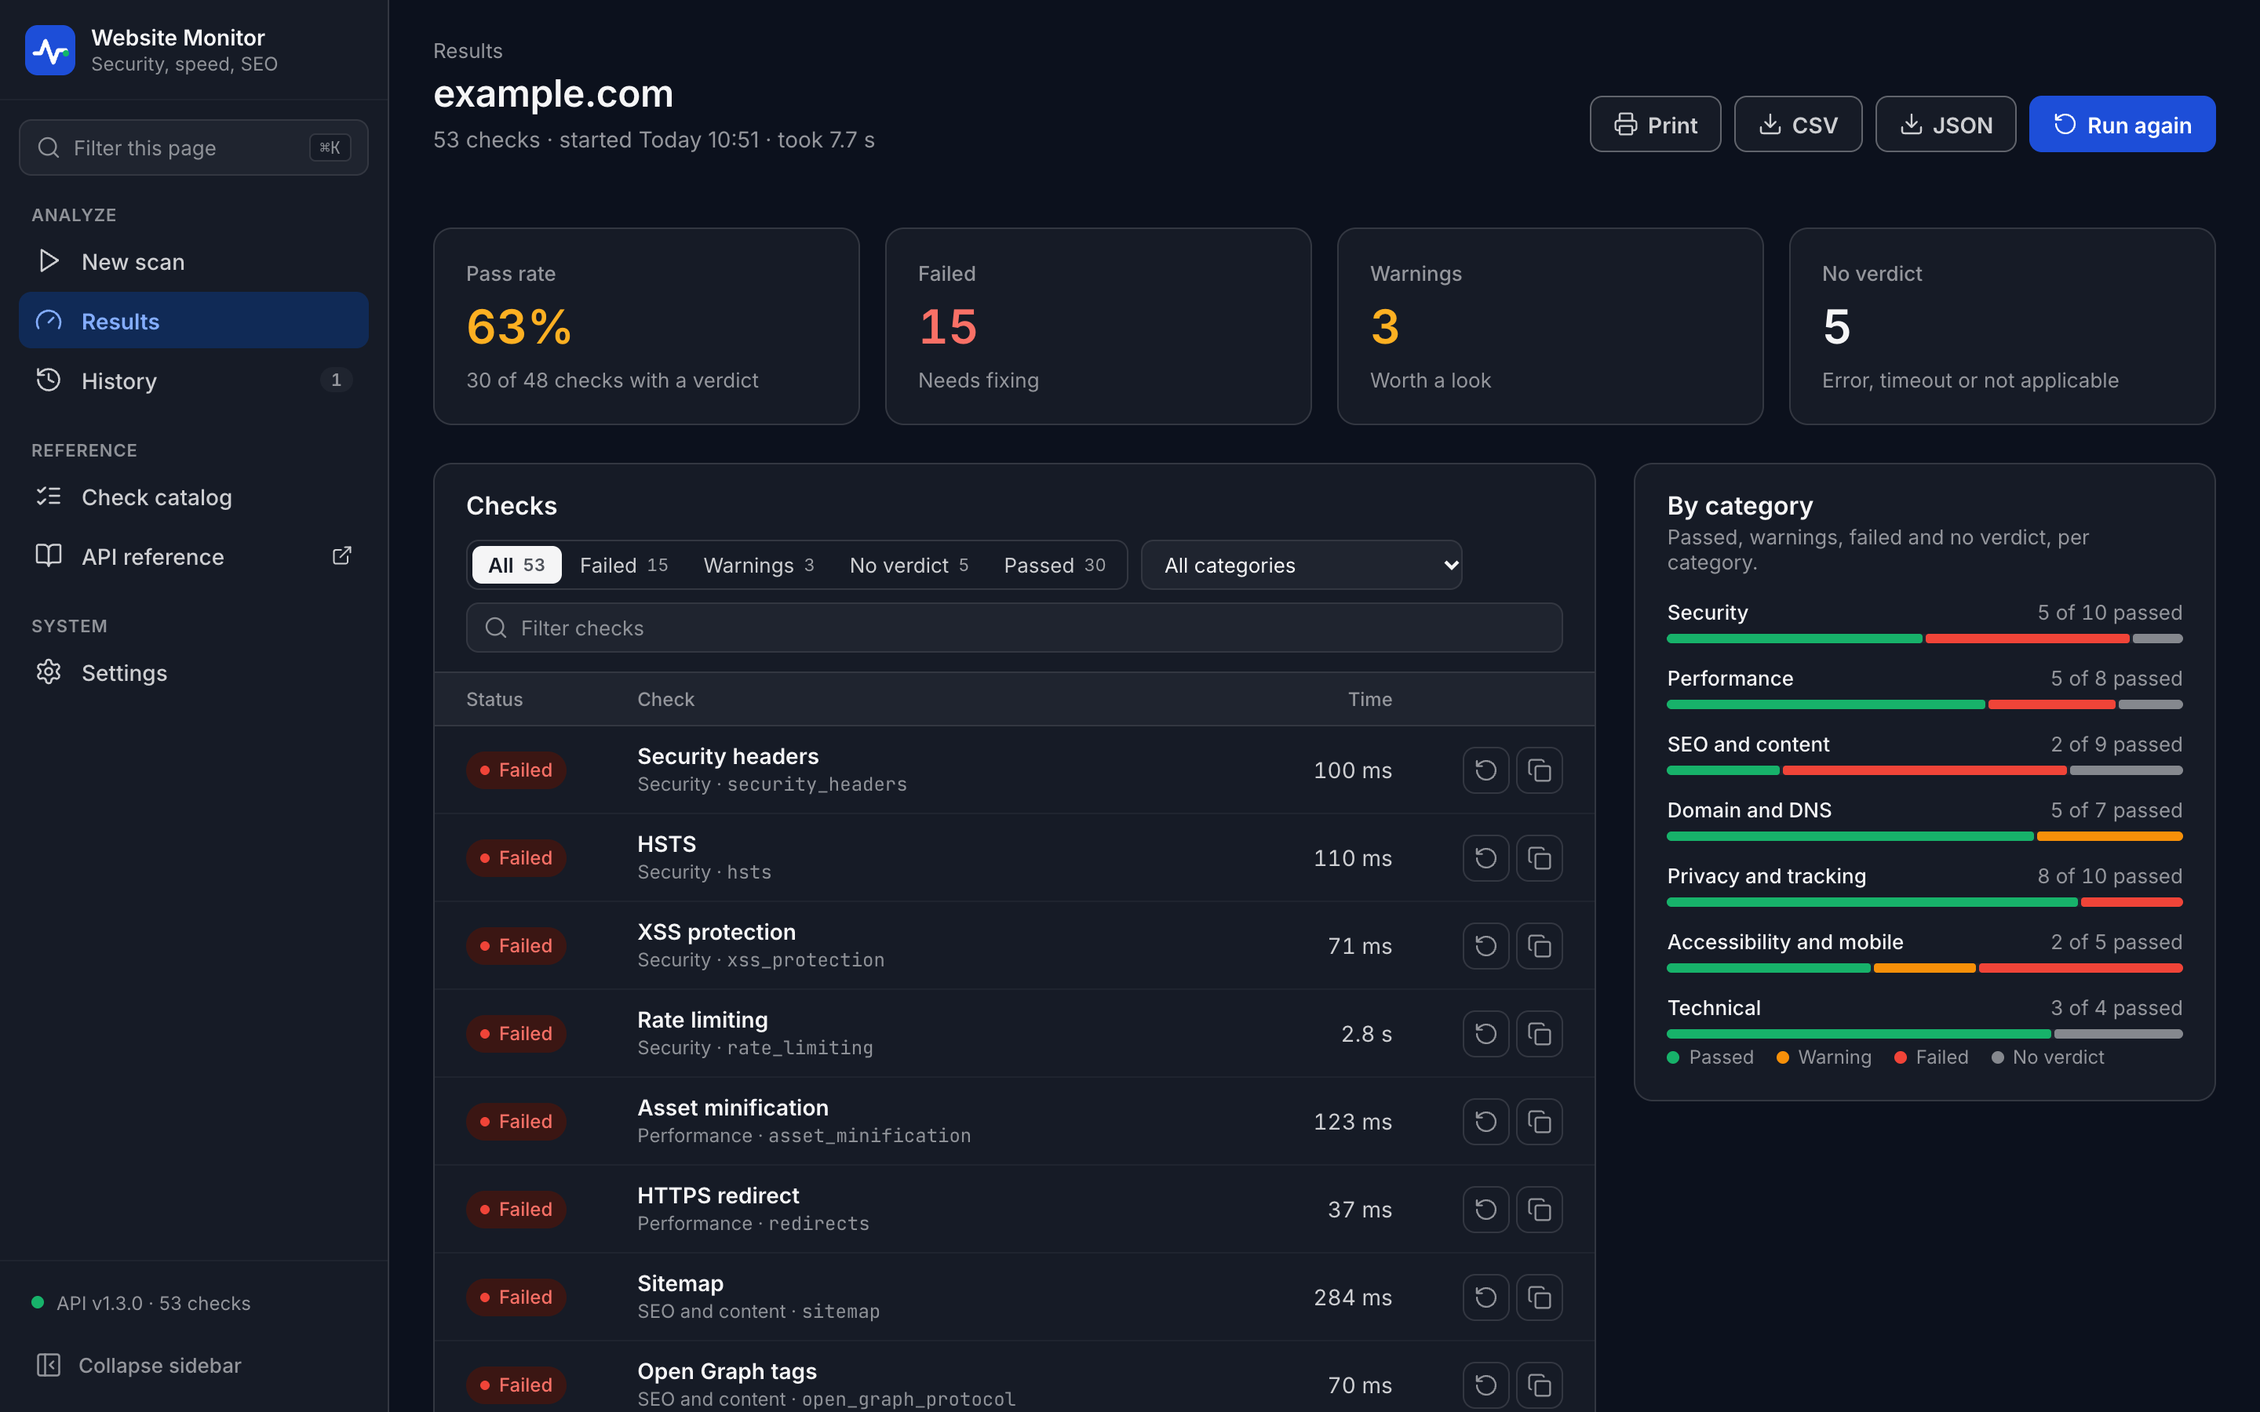
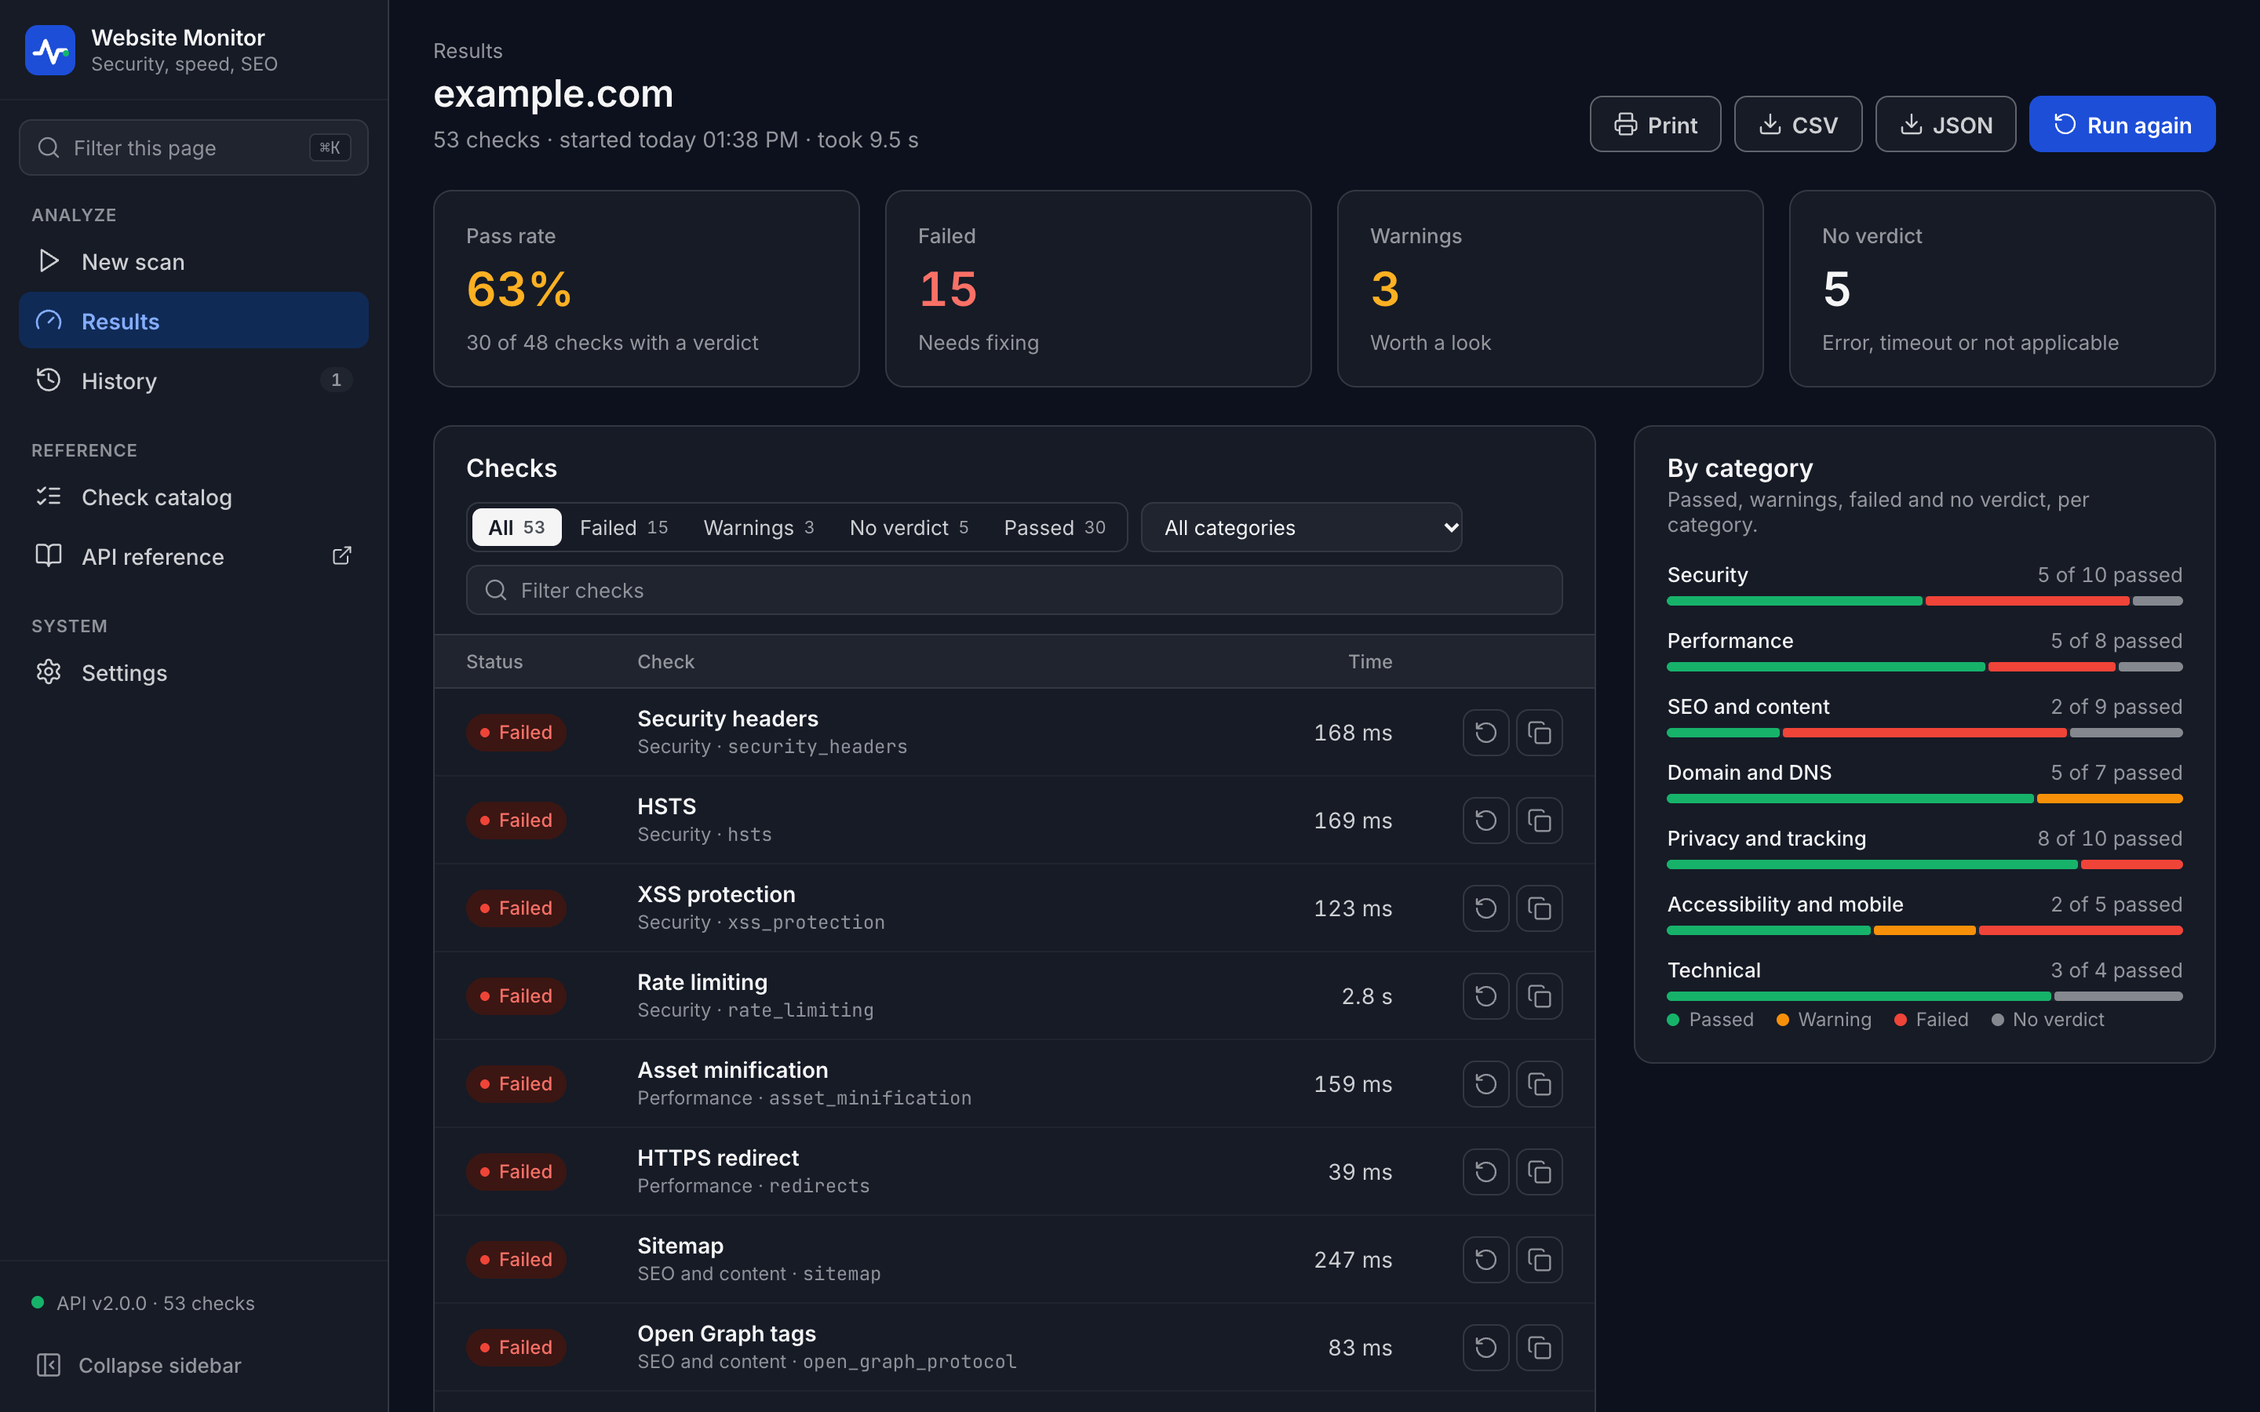
fix(ui): the results view has no empty gap and nothing overflows on a phone, and the README is tested against the code, v2.0.1 (#34)
* fix(ui): the results view has no empty gap and nothing overflows on a phone, and the README is tested against the code

- Results: the progress box is hidden when no scan runs, so the view's
  gap no longer leaves empty space above the summary.
- The status filter stays inside its panel at 390 px (flex items in a
  panel toolbar may shrink); a long recent target ends with an ellipsis.
- Table cells no longer use tabular figures, which in Inter widen the
  hyphen ("X - Frame - Options"); numeric columns keep them.
- README: Run again in the web UI is a scan with one check, not
  run_check. Screenshots recaptured with the 2.0.0 API. The page
  description mentions the command line and the MCP server.
- tests/test_docs.py: the README cites every endpoint, command, MCP tool
  and environment variable, and none that does not exist. Break-tested:
  8 mutations of README, llms.txt and .env.example each turn it red.
- run_stdio links the upstream report, python-sdk#3821.

* chore(release): v2.0.1

---------

diff --git a/docs/index.html b/docs/index.html
@@ -5,7 +5,7 @@
   <meta name="viewport" content="width=device-width, initial-scale=1">
   <meta name="color-scheme" content="light dark">
   <title>Website Monitor - Security, Performance and SEO Checks</title>
-  <meta name="description" content="Run 53 security, performance, SEO, privacy and accessibility checks against a website, from a web UI, a REST API or a scheduled GitHub Action.">
+  <meta name="description" content="Run 53 security, performance, SEO, privacy and accessibility checks against a website, from a web UI, a REST API, a command line, an MCP server or a scheduled GitHub Action.">
   <link rel="canonical" href="https://fabriziosalmi.github.io/websites-monitor/">
   <meta name="robots" content="index, follow, max-image-preview:large">
   <meta name="theme-color" content="#F7F8FA" media="(prefers-color-scheme: light)">
@@ -16,13 +16,13 @@
   <meta property="og:type" content="website">
   <meta property="og:url" content="https://fabriziosalmi.github.io/websites-monitor/">
   <meta property="og:title" content="Website Monitor - Security, Performance and SEO Checks">
-  <meta property="og:description" content="Run 53 security, performance, SEO, privacy and accessibility checks against a website, from a web UI, a REST API or a scheduled GitHub Action.">
+  <meta property="og:description" content="Run 53 security, performance, SEO, privacy and accessibility checks against a website, from a web UI, a REST API, a command line, an MCP server or a scheduled GitHub Action.">
   <meta property="og:image" content="https://fabriziosalmi.github.io/websites-monitor/screenshot.png">
 
   <meta name="twitter:card" content="summary_large_image">
   <meta name="twitter:url" content="https://fabriziosalmi.github.io/websites-monitor/">
   <meta name="twitter:title" content="Website Monitor - Security, Performance and SEO Checks">
-  <meta name="twitter:description" content="Run 53 security, performance, SEO, privacy and accessibility checks against a website, from a web UI, a REST API or a scheduled GitHub Action.">
+  <meta name="twitter:description" content="Run 53 security, performance, SEO, privacy and accessibility checks against a website, from a web UI, a REST API, a command line, an MCP server or a scheduled GitHub Action.">
   <meta name="twitter:image" content="https://fabriziosalmi.github.io/websites-monitor/screenshot.png">
 
   <script type="application/ld+json">
@@ -35,7 +35,7 @@
         "name": "Website Monitor",
         "operatingSystem": "Cross-platform",
         "applicationCategory": "DeveloperApplication",
-        "description": "Website monitoring via a web UI, a REST API and GitHub Actions, with 53 security, performance, SEO, privacy and accessibility checks.",
+        "description": "Website monitoring via a web UI, a REST API, a command line, an MCP server and GitHub Actions, with 53 security, performance, SEO, privacy and accessibility checks.",
         "url": "https://fabriziosalmi.github.io/websites-monitor/",
         "license": "https://opensource.org/licenses/MIT",
         "codeRepository": "https://github.com/fabriziosalmi/websites-monitor",
@@ -64,8 +64,8 @@
     })();
   </script>
   <link rel="preload" href="fonts/inter-5.3.0/inter-latin-wght-normal.woff2" as="font" type="font/woff2" crossorigin>
-  <link rel="stylesheet" href="assets/app.css?v=4">
-  <script src="assets/app.js?v=4" defer></script>
+  <link rel="stylesheet" href="assets/app.css?v=5">
+  <script src="assets/app.js?v=5" defer></script>
 </head>
 <body>
   <a class="sr-only" href="#view" data-i18n="a11y.skip">Skip to content</a>

diff --git a/docs/assets/app.css b/docs/assets/app.css
@@ -149,7 +149,7 @@ body, aside, main, tr, td, button, input, select, h1, h2, h3, p, span, label {
 
 a { color: var(--ds-accent); text-underline-offset: 2px; }
 a:hover { text-decoration: underline; }
-td, th, code, kbd, .mono, .stat-val, .badge, .num { font-variant-numeric: tabular-nums; }
+code, kbd, .mono, .stat-val, .badge, .num { font-variant-numeric: tabular-nums; }
 code, kbd, .mono { font-family: var(--font-mono); }
 
 :focus-visible { outline: 2px solid var(--ds-accent); outline-offset: 2px; }
@@ -372,6 +372,7 @@ h1.page-title {
 .panel-toolbar {
   display: flex; flex-wrap: wrap; align-items: center; gap: 8px; padding: 0 20px 12px;
 }
+.panel-toolbar > * { min-width: 0; max-width: 100%; }
 .panel-toolbar .grow { flex: 1 1 200px; min-width: 0; }
 
 .layout-2 { display: grid; grid-template-columns: minmax(0, 1fr); gap: 24px; }
@@ -482,7 +483,8 @@ select.form-input.filter-select { width: auto; min-width: 150px; height: 32px; f
 
 .chip-row { display: flex; flex-wrap: wrap; align-items: center; gap: 6px; }
 .chip {
-  display: inline-flex; align-items: center; gap: 6px; height: 26px; padding: 0 10px;
+  display: inline-block; max-width: 100%; height: 26px; line-height: 24px; padding: 0 10px;
+  overflow: hidden; text-overflow: ellipsis; white-space: nowrap;
   border-radius: 9999px; border: 1px solid var(--ds-border); background: var(--ds-surface);
   color: var(--ds-text-secondary); font-family: var(--font-sans); font-size: 0.75rem; font-weight: 500; cursor: pointer;
 }

diff --git a/docs/assets/app.js b/docs/assets/app.js
@@ -113,7 +113,7 @@
   const LANGS = ['en', 'it'];
   // Bump with every change to app.js, app.css or a locale file, together with
   // the ?v= in index.html: browsers keep the previous files under the same URL.
-  const ASSET_VERSION = '4';
+  const ASSET_VERSION = '5';
   const i18n = { lang: 'en', dict: {}, fallback: {}, plural: new Intl.PluralRules('en') };
 
   function readLangPref() {
@@ -921,7 +921,7 @@
     return h('div', { class: 'chip-row' },
       h('span', { class: 'text-muted', text: t('scan.recent') }),
       seen.slice(0, 6).map(target => h('button', {
-        type: 'button', class: 'chip', text: target,
+        type: 'button', class: 'chip', text: target, title: target,
         onclick: () => { input.value = target; onPick(); input.focus(); },
       })));
   }
@@ -1010,6 +1010,7 @@
     ui.desc.textContent = parts.join(' · ');
 
     clear(ui.progress);
+    ui.progress.hidden = !running;
     if (running) {
       const w = n => `${(n / c.total) * 100}%`;
       ui.progress.appendChild(h('div', { class: 'panel' }, h('div', { class: 'run-strip' },

diff --git a/tests/test_docs.py b/tests/test_docs.py
@@ -1,0 +1,103 @@
+"""
+The README documents what the code has, and only that: every endpoint, CLI
+command, MCP tool and environment variable, and nothing that does not exist.
+"""
+import asyncio
+import json
+import re
+from pathlib import Path
+
+from fakes import make_service
+from websites_monitor.adapters.cli import build_parser
+from websites_monitor.adapters.mcp import create_mcp
+
+ROOT = Path(__file__).resolve().parent.parent
+README = (ROOT / "README.md").read_text()
+# Other pages that cite endpoints and commands; they must not cite what does not exist.
+OTHER_DOCS = [ROOT / "docs" / "llms.txt", ROOT / "docs" / "DOCKER.md", ROOT / "CONTRIBUTING.md"]
+
+
+def endpoints() -> set[str]:
+    """METHOD /path from the OpenAPI snapshot; the per-check routes count as /check/{id}."""
+    paths = json.loads((ROOT / "docs" / "openapi.json").read_text())["paths"]
+    found = set()
+    for path, methods in paths.items():
+        if path.startswith("/check/") and "{" not in path:
+            path = "/check/{id}"
+        found |= {f"{method.upper()} {path}" for method in methods}
+    return found
+
+
+def cited_endpoints(text: str) -> set[str]:
+    return {m.group(1) for m in re.finditer(r"`((?:GET|POST|PUT|PATCH|DELETE) /[^`?\s]*)", text)}
+
+
+def commands() -> set[str]:
+    sub = next(a for a in build_parser()._actions if a.__class__.__name__ == "_SubParsersAction")
+    return set(sub.choices)
+
+
+def cited_commands(text: str) -> set[str]:
+    shell = re.findall(r"(?:\bwebsites-monitor|python -m websites_monitor) ([a-z][a-z-]*)", text)
+    json_args = re.findall(r'"websites-monitor", "([a-z][a-z-]*)"', text)
+    return set(shell) | set(json_args)
+
+
+def tools() -> set[str]:
+    service, _ = make_service(slow_seconds=0)
+    return {t.name for t in asyncio.run(create_mcp(service).list_tools())}
+
+
+def variables() -> set[str]:
+    """Every variable the code, the Compose file or .env.example reads."""
+    found = set()
+    sources = [ROOT / "api.py", ROOT / "main.py",
+               *(ROOT / "websites_monitor").rglob("*.py"), *(ROOT / "checks").glob("*.py")]
+    for path in sources:
+        found |= set(re.findall(r"""(?:environ(?:\.get)?[\[(]|getenv\()["']([A-Z][A-Z0-9_]+)["']""", path.read_text()))
+    found |= set(re.findall(r"\$\{([A-Z][A-Z0-9_]+)", (ROOT / "docker-compose.yml").read_text()))
+    found |= set(re.findall(r"^([A-Z][A-Z0-9_]+)=", (ROOT / ".env.example").read_text(), re.M))
+    return found
+
+
+def section(title: str) -> str:
+    match = re.search(rf"^## {re.escape(title)}\n(.*?)(?=^## )", README, re.S | re.M)
+    assert match, f"README has no '## {title}' section"
+    return match.group(1)
+
+
+def test_the_readme_cites_every_endpoint_and_no_other():
+    assert endpoints() == cited_endpoints(section("REST API"))
+    for path in OTHER_DOCS:
+        assert cited_endpoints(path.read_text()) <= endpoints(), path.name
+
+
+def test_the_readme_cites_every_command_and_no_other():
+    assert cited_commands(README) == commands()
+    for path in OTHER_DOCS:
+        assert cited_commands(path.read_text()) <= commands(), path.name
+
+
+def test_the_interfaces_table_lists_every_operation_once_per_interface():
+    rows = [line.split("|")[1:-1] for line in section("Interfaces").splitlines()
+            if line.startswith("| ") and "`" in line]
+    operations = {cells[0].strip() for cells in rows}
+    assert operations == tools()
+    for cells in rows:
+        operation, rest, cli, mcp_tool = (c.strip() for c in cells[:4])
+        assert cited_endpoints(rest) <= endpoints(), operation
+        assert cited_commands(cli) <= commands(), operation
+        assert mcp_tool == f"`{operation}`"
+
+
+def test_the_readme_lists_every_mcp_tool_and_no_other():
+    listed = re.search(r"one tool per operation \(([^)]*)\)", section("MCP server"))
+    assert listed, "the MCP server section no longer lists its tools"
+    assert set(re.findall(r"`([a-z_]+)`", listed.group(1))) == tools()
+
+
+def test_the_environment_table_lists_every_variable_and_no_other():
+    table = section("Configuration").split("Environment variables", 1)[1]
+    documented = {v for line in table.splitlines() if line.startswith("| `")
+                  for v in re.findall(r"`([A-Z][A-Z0-9_]+)`", line.split("|")[1])}
+    assert documented == variables()

diff --git a/websites_monitor/adapters/mcp.py b/websites_monitor/adapters/mcp.py
@@ -56,7 +56,8 @@ def run_stdio(server: MCPServer) -> None:
     at stderr while it serves, but print() fills Python's stdout buffer, which
     is only flushed at exit, after the SDK has given fd 1 back to the protocol:
     the text then arrived on the wire as a broken JSON-RPC message. Flushing
-    at every newline sends it to stderr while the diversion holds.
+    at every newline sends it to stderr while the diversion holds. Reported
+    upstream: https://github.com/modelcontextprotocol/python-sdk/issues/3821
     """
     sys.stdout.reconfigure(line_buffering=True)
     server.run("stdio")

diff --git a/websites_monitor/__init__.py b/websites_monitor/__init__.py
@@ -15,4 +15,4 @@ The package is laid out as ports and adapters:
   REST API.
 """
 
-__version__ = "2.0.0"
+__version__ = "2.0.1"

diff --git a/CHANGELOG.md b/CHANGELOG.md
@@ -7,6 +7,15 @@ and this project adheres to [Semantic Versioning](https://semver.org/spec/v2.0.0
 
 ## [Unreleased]
 
+## [2.0.1] - 2026-11-05
+
+### Fixed
+- Web UI: no empty gap above the summary on the Results view when no scan is running; the status filter no longer sticks out of its panel on narrow screens; a long domain among the recent targets is shortened with an ellipsis instead of overflowing its chip; hyphens in table cells keep their normal width ("X-Frame-Options").
+- README: a single check from the web UI (Run again) is a `scan` with one check, not `run_check`; the screenshots show the 2.0.0 API. The page description mentions the command line and the MCP server.
+
+### Added
+- `tests/test_docs.py`: the README must cite every endpoint, command, MCP tool and environment variable that exists, and none that does not.
+
 ## [2.0.0] - 2026-11-05
 
 The REST API, a new command line and a new MCP server share one implementation and return the same JSON. Some responses change: see Changed.
@@ -113,7 +122,8 @@ The REST API, a new command line and a new MCP server share one implementation a
 - Markdown report generation
 - Core security and performance checks
 
-[Unreleased]: https://github.com/fabriziosalmi/websites-monitor/compare/v2.0.0...HEAD
+[Unreleased]: https://github.com/fabriziosalmi/websites-monitor/compare/v2.0.1...HEAD
+[2.0.1]: https://github.com/fabriziosalmi/websites-monitor/compare/v2.0.0...v2.0.1
 [2.0.0]: https://github.com/fabriziosalmi/websites-monitor/compare/v1.5.0...v2.0.0
 [1.5.0]: https://github.com/fabriziosalmi/websites-monitor/compare/v1.4.1...v1.5.0
 [1.4.1]: https://github.com/fabriziosalmi/websites-monitor/compare/v1.4.0...v1.4.1

diff --git a/README.md b/README.md
@@ -193,8 +193,8 @@ The same operations are available four ways. The REST API, the command line and 
 |---|---|---|---|---|
 | health | `GET /health` | `websites-monitor health` | `health` | sidebar |
 | list_checks | `GET /checks` | `websites-monitor checks` | `list_checks` | Check catalog |
-| run_check | `GET /check/{id}?website=` | `websites-monitor check <id> <website>` | `run_check` | Run again, on a result row |
-| scan | `POST /monitor/single` | `websites-monitor scan <website>` | `scan` | New scan, Results, JSON export |
+| run_check | `GET /check/{id}?website=` | `websites-monitor check <id> <website>` | `run_check` | |
+| scan | `POST /monitor/single` | `websites-monitor scan <website>` | `scan` | New scan, Results, JSON export; Run again on a result row is a scan with one check |
 | scan_many | `POST /monitor` | `websites-monitor scan-many <website>...` | `scan_many` | |
 | report | `POST /generate-report` | `websites-monitor report <website>...` | `report` | |
 
